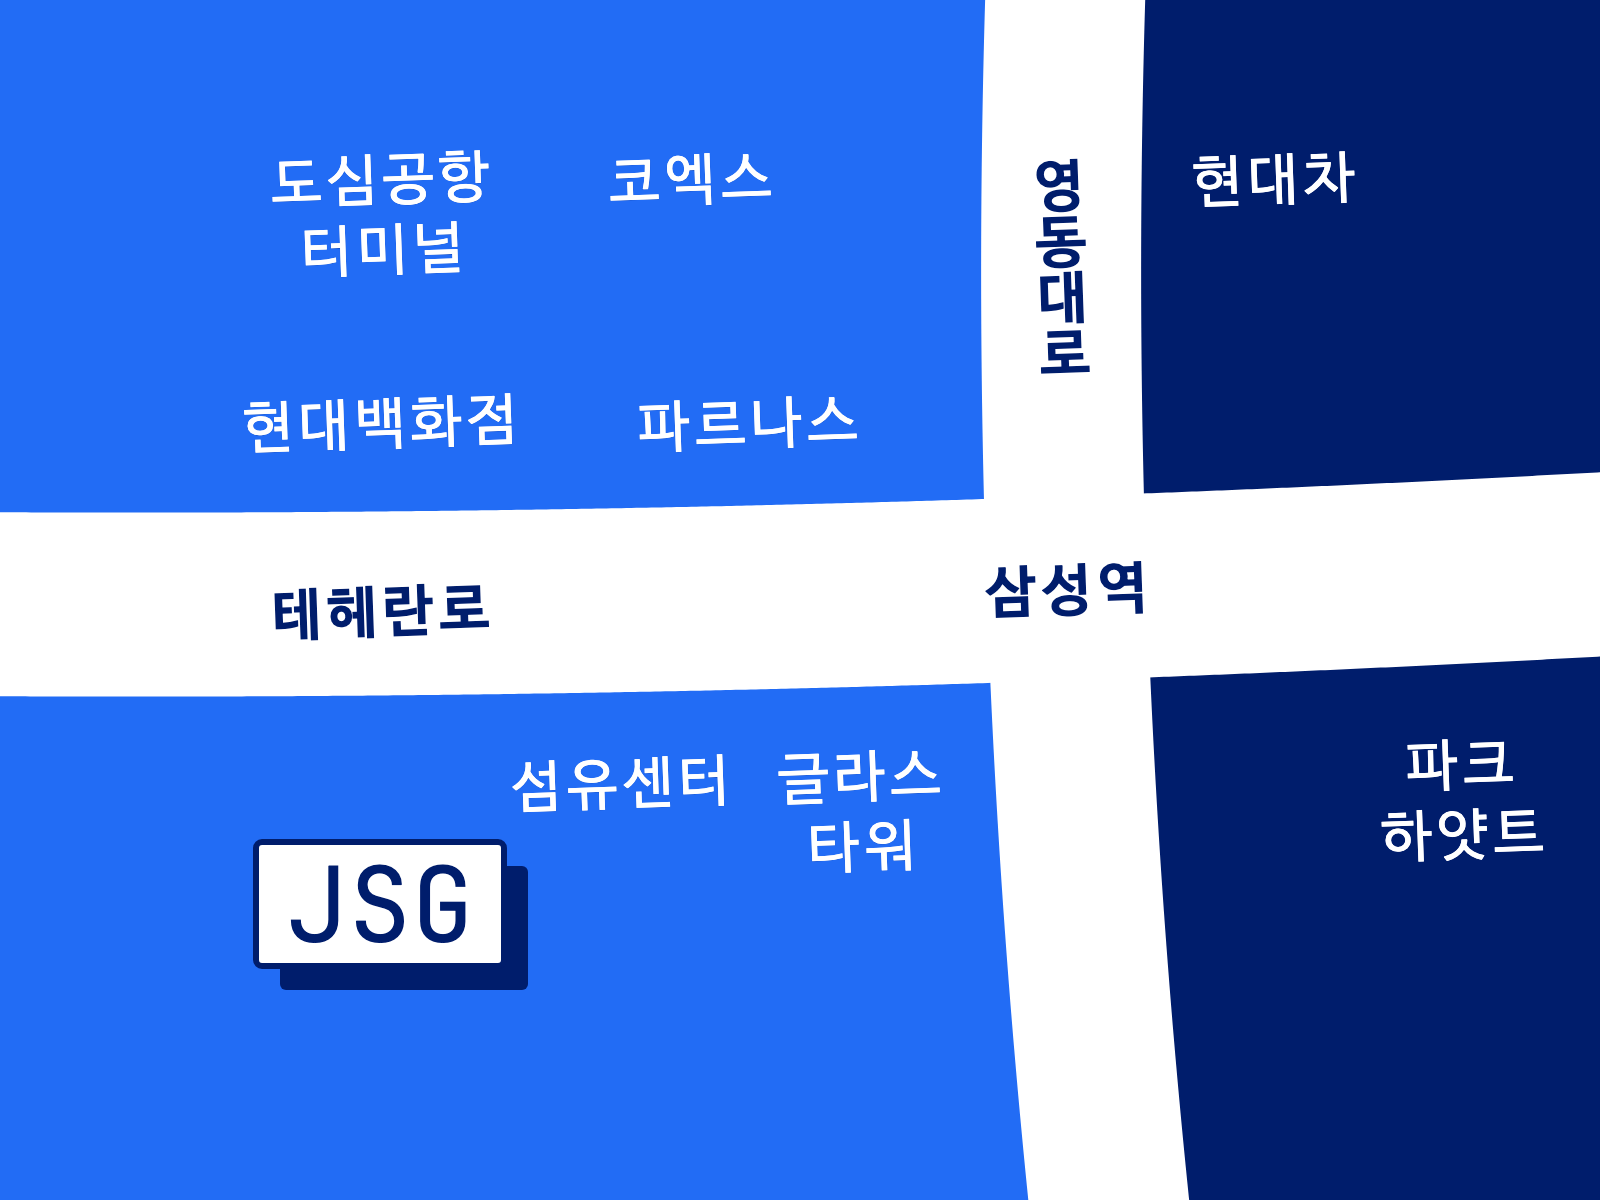
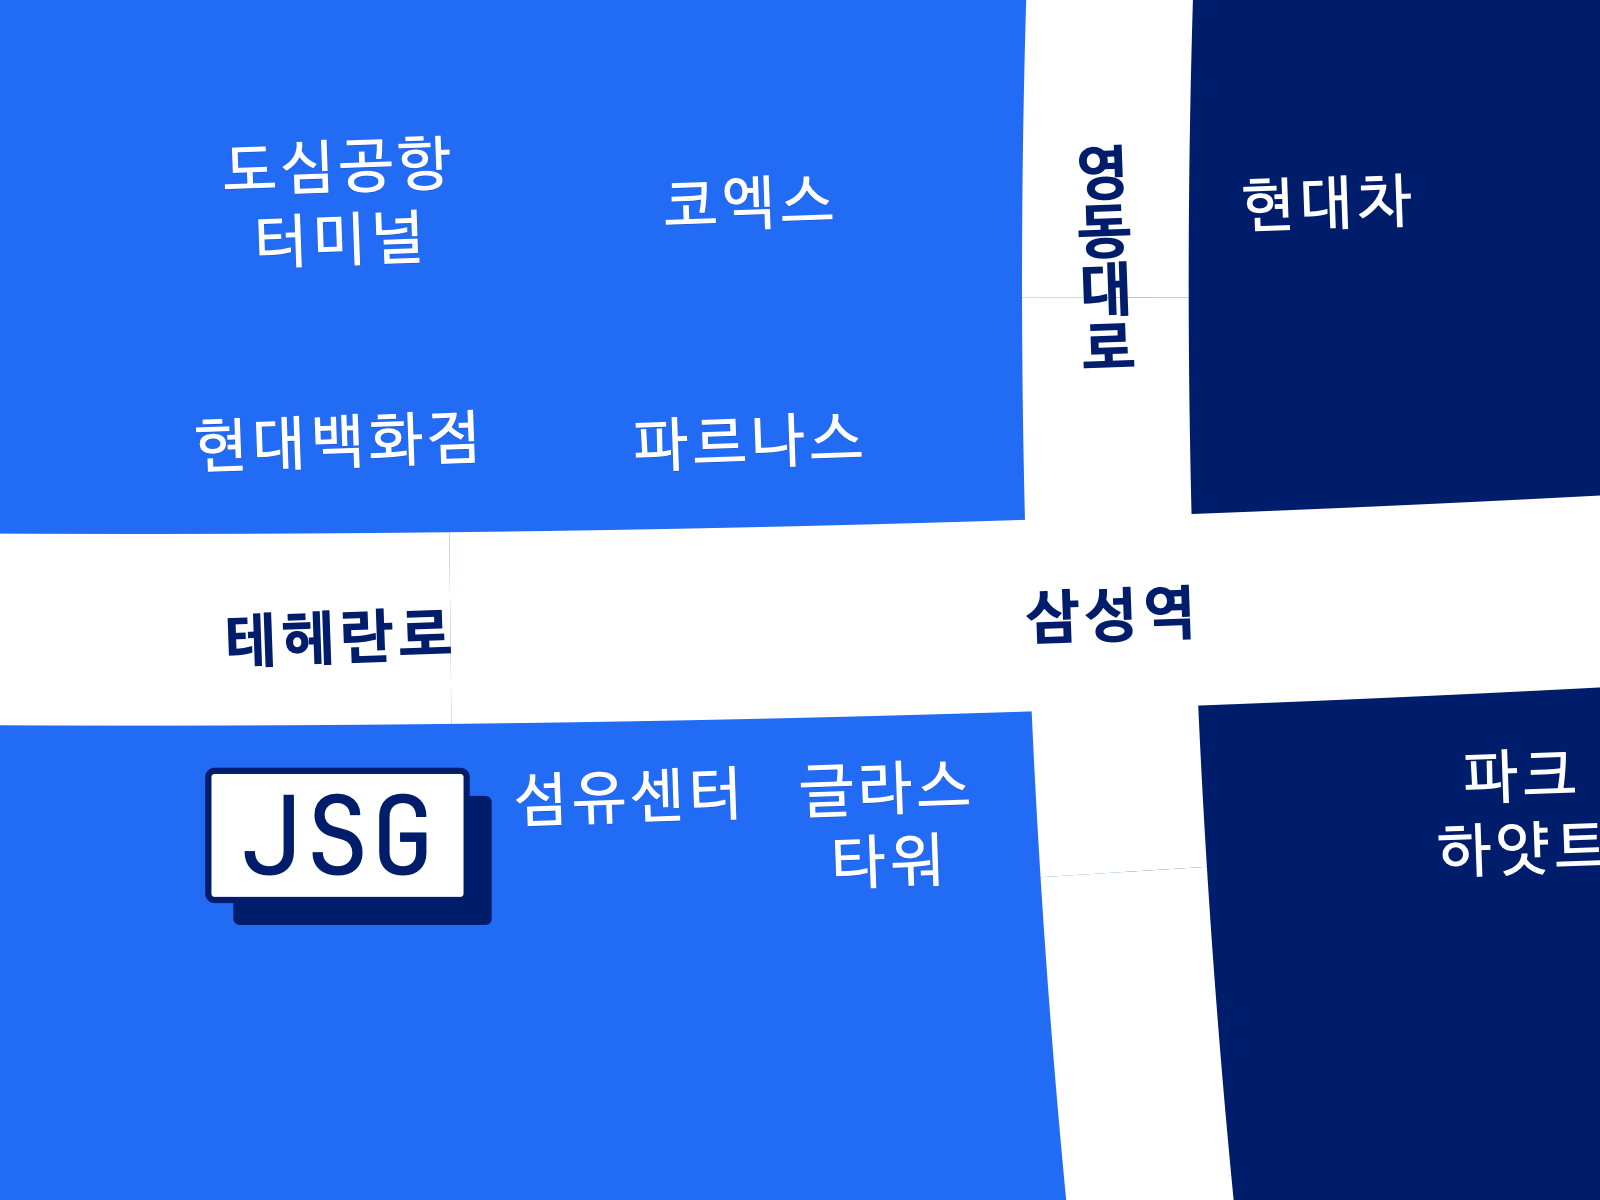
Refine contact map layout

diff --git a/styles/home.css b/styles/home.css
@@ -124,7 +124,28 @@
 .home-page :is(.contact-value, .contact-label, .contact-subtext, .contact-map-caption) { color: inherit; }
 .home-page :is(.contact-value, .contact-label) { margin: 0; font-size: 20px; font-weight: 400; line-height: 1.6; word-break: keep-all; overflow-wrap: anywhere; }
 .home-page .contact-address { display: grid; gap: 4px; min-width: 0; }
-.home-page .contact-map-frame { width: min(100%, 572px); aspect-ratio: 4 / 3; margin: 32px auto 0; border: 0; border-radius: 0; background: none; overflow: visible; position: relative; isolation: isolate; }
+.home-page .contact-map-band {
+    width: 100vw;
+    margin: 32px 0 0 calc(50% - 50vw);
+    overflow: hidden;
+    background-image: url("../assets/contact/contact-map-road-extension.svg?v=20260918-curve"), linear-gradient(to right, var(--palette-blue) 50%, var(--palette-navy) 50%);
+    background-position: center;
+    background-repeat: no-repeat;
+    background-size: auto 100%, 100% 100%;
+}
+.home-page .contact-map-frame {
+    width: min(572px, 75.389vw);
+    aspect-ratio: 4 / 3;
+    margin: 0;
+    border: 0;
+    border-radius: 0;
+    background: none;
+    overflow: visible;
+    position: relative;
+    left: 50%;
+    transform: translateX(-66.3225%);
+}
+.home-page #contact-map-image { clip-path: inset(0 1px); }
 .home-page .site-footer { display: block; padding-block: 56px calc(32px + env(safe-area-inset-bottom, 0px)); font-size: 14px; }
 @media (max-width: 1023px) {
     .home-page .home-section { padding-block: var(--section-band-space); }
@@ -144,7 +165,6 @@
     .home-page .philosophy-list { grid-template-columns: 1fr; gap: 40px; }
     .home-page .contact-row { gap: 16px; }
     .home-page :is(.contact-value, .contact-label) { font-size: 17px; }
-    .home-page .contact-map-frame { width: 100%; }
 }
 @media (max-width: 359px) {
     .home-page .contact-row { grid-template-columns: minmax(0, 1fr); gap: 8px; }
@@ -378,21 +398,6 @@
 }
 
 .home-page .philosophy-intro { display: grid; gap: 6px; margin-bottom: 48px; }
-
-/* Extend the exact SVG field colors beyond the centered map, to both page edges. */
-.home-page .contact-map-frame::before {
-    content: "";
-    position: absolute;
-    inset-block: 0;
-    left: 50%;
-    width: 100vw;
-    transform: translateX(-50%);
-    z-index: -1;
-    background-image: url("../assets/contact/contact-map-road-extension.svg?v=20260918-curve"), linear-gradient(to right, var(--palette-blue) 50%, var(--palette-navy) 50%);
-    background-size: auto 100%, 100% 100%;
-    background-position: center;
-    background-repeat: no-repeat;
-}
 
 /* Share bilingual row tracks so address wrapping keeps both languages aligned. */
 .home-page .contact-row { grid-template-columns: 7ch minmax(0, 1fr); column-gap: 24px; row-gap: 4px; align-items: start; }

diff --git a/about.html b/about.html
@@ -13,7 +13,7 @@
     <link rel="stylesheet" href="styles/layout.css?v=20260918-ci">
     <link rel="stylesheet" href="styles/main.css?v=20260910-team-refinement">
     <link rel="stylesheet" href="styles/about-editorial.css?v=20260918-ci">
-    <link rel="stylesheet" href="styles/home.css?v=20260918-contact-centered">
+    <link rel="stylesheet" href="styles/home.css?v=20260918-contact-map50">
     <link rel="stylesheet" href="styles/section-reveal.css?v=20260908-screen-edges">
 </head>
 
@@ -242,9 +242,11 @@
                         </div>
                     </div>
                 </div>
-                <figure class="contact-map-frame">
-                    <img id="contact-map-image" src="assets/contact/contact-map.svg" width="800" height="600" alt="현대백화점 건너편 JSG와 주변 주요 건물의 위치 약도" loading="lazy" decoding="async">
-                </figure>
+                <div class="contact-map-band">
+                    <figure class="contact-map-frame">
+                        <img id="contact-map-image" src="assets/contact/contact-map.svg" width="800" height="600" alt="현대백화점 건너편 JSG와 주변 주요 건물의 위치 약도" loading="lazy" decoding="async">
+                    </figure>
+                </div>
             </div>
 
             </div>
